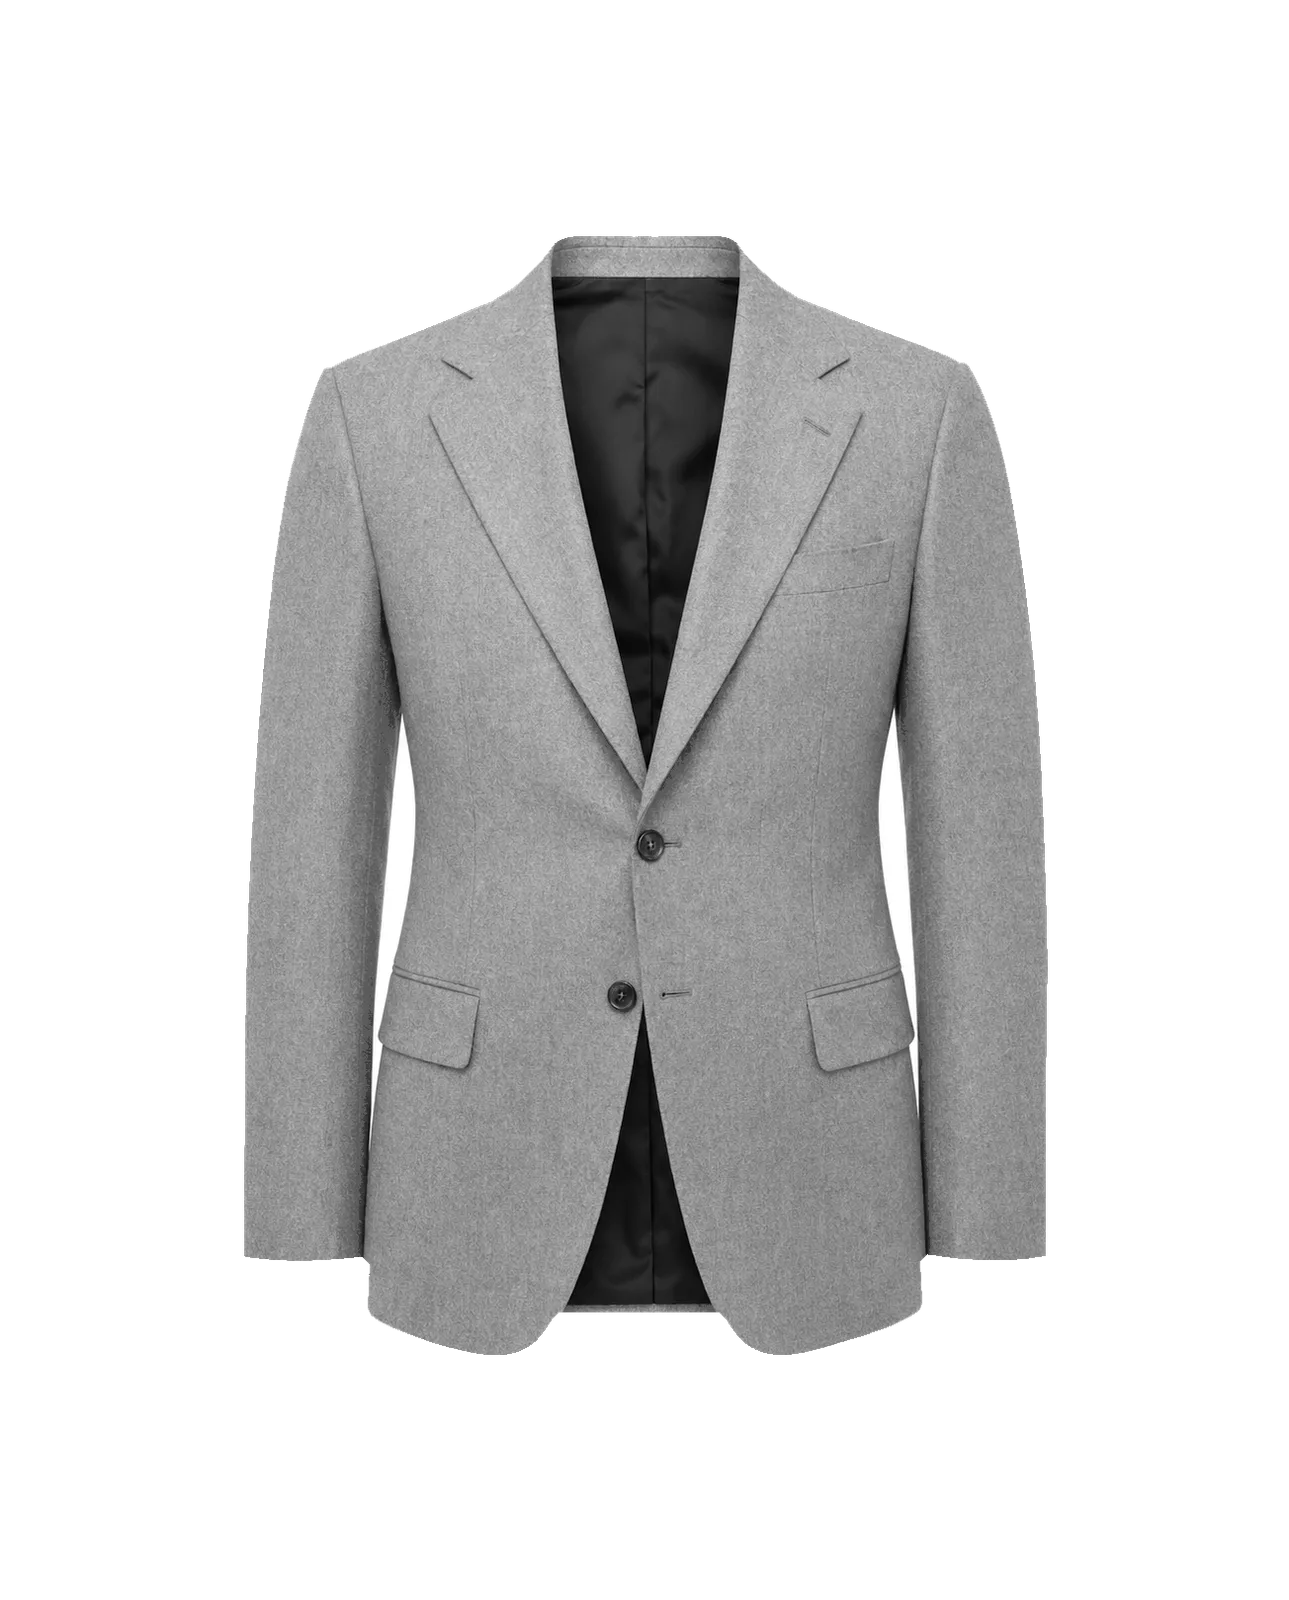
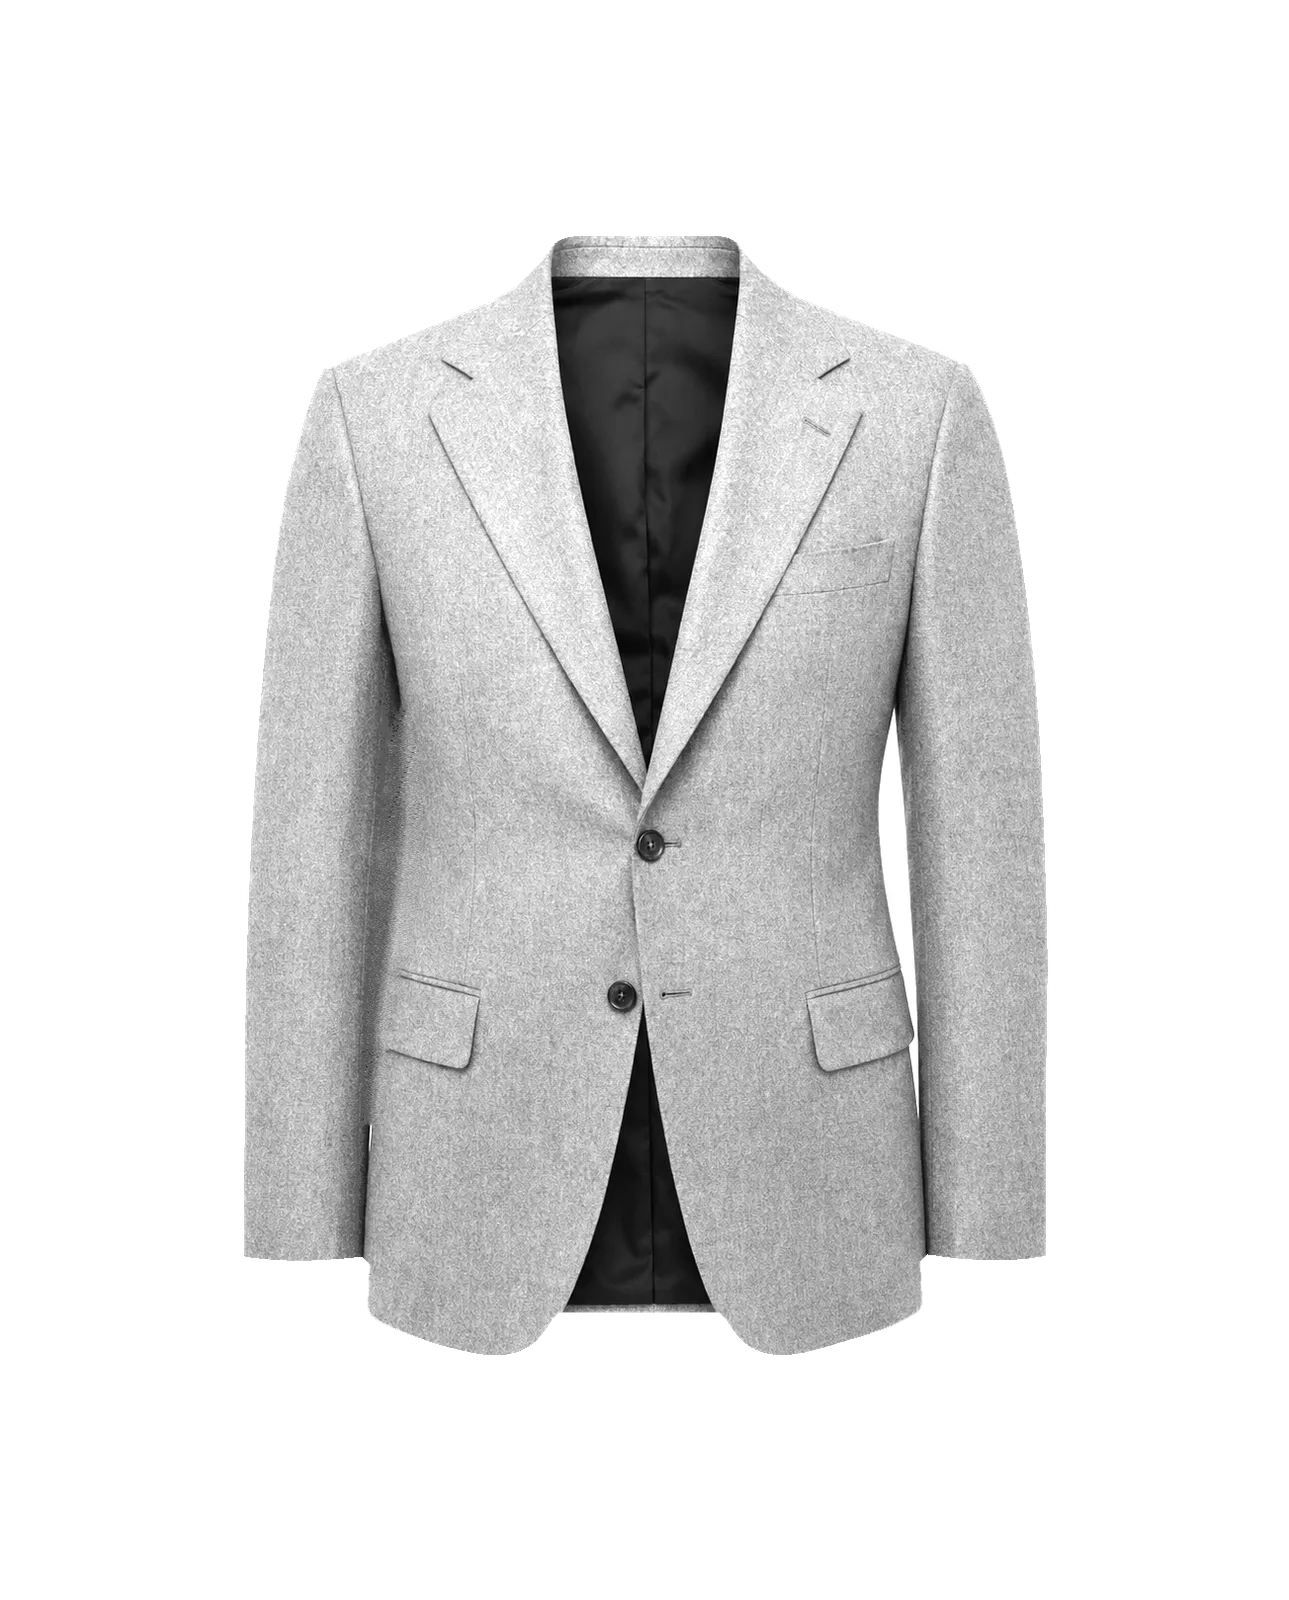
Heal the sleeve/torso gap in jacket-sb's source photo
Founder screenshot showed a hard-edged, pure-white gap between the
sleeve and torso — present even with every displacement region
removed, so not a rendering bug. Traced to the raw source photo:
ghost-mannequin volume stands the sleeve away from the body more than
a worn garment would, letting the white studio backdrop show through
an interior gap. Confirmed via raw luminance (pegged 253-255 with a
clean silhouette-like boundary, nothing like a highlight's soft
falloff) and confirmed not a mask bug — the shipped alpha was fully
opaque there too, because the gap is an enclosed island the frame-edge
flood fill in extractMask can never reach.

Two hand-rolled per-row fixes were tried first and both looked worse
than the gap in different ways: a colour-gradient fill had zero grain
texture and combed horizontal banding; a clone-shifted strip fixed the
texture but produced an obvious rectangular "sticker" with a mismatched
grain direction. Both abandoned in favour of real texture-aware
inpainting (Python/OpenCV cv2.inpaint, Telea, masked to the gap's own
connected-component shape) plus a fine grain texture tiled in from
clean sleeve fabric so the fill carries the photo's own noise instead
of reading smooth. Saved as a new source file (original kept on disk
for provenance) and repointed SOURCES["jacket-sb"] to it — confirmed
via rebuild that every other asset stayed byte-identical.

Re-verified with fox_flannel_chalkstripe and
[…]

Changed region(s): [[0.1862, 0.125, 0.8379, 0.8438]]

diff --git a/tools/build-garment-assets.js b/tools/build-garment-assets.js
@@ -571,7 +571,29 @@ if (require.main === module) {
         // disk untouched, it is just no longer what this key builds from.
         // Retracing JACKET_SB_LAPELS in garment-photo.js against the new
         // outline is required follow-up (see that file).
-        "jacket-sb": "replicate-prediction-mapxkr394drmr0d05wa9n2cnbw.png",
+        // REPOINTED 25 Aug 2026 to a healed copy of the same photo — the
+        // original had a hard-edged, pure-white gap between the sleeve
+        // and torso (ghost-mannequin volume standing the sleeve away from
+        // the body more than a worn garment would, letting the studio
+        // backdrop show through). Confirmed real via the raw luminance
+        // (pegged 253-255, a clean silhouette-like boundary, nothing like
+        // a highlight's soft falloff) and confirmed NOT a mask bug: the
+        // shipped alpha was fully opaque there too, because the gap is an
+        // enclosed island the frame-edge flood fill in extractMask can
+        // never reach. A striped test cloth never showed it (a blown gap
+        // just reads as "extra-bright stripes"); a windowpane check did,
+        // as a jarring pattern-less pale band with no grid lines at all.
+        // Healed with OpenCV inpainting (cv2.inpaint, Telea) restricted to
+        // the gap's own connected-component shape, then a fine grain
+        // texture tiled in from a clean patch of the same sleeve fabric so
+        // the fill carries real noise instead of reading smooth/flat — a
+        // first attempt at a hand-rolled per-row fix (both a plain colour
+        // gradient and a straight clone-shift) looked worse than the
+        // original in two different ways (obvious flat scanline banding,
+        // then a visible rectangular "sticker") before landing on this.
+        // File: jacket-sb-notch-sleeve-gap-healed.png (original kept on
+        // disk untouched, for provenance/comparison).
+        "jacket-sb": "jacket-sb-notch-sleeve-gap-healed.png",
         "jacket-sb-peak-patch": "jacket-sb-peak-patch.png",
         "jacket-sb-peak-flap": "jacket-sb-peak-flap.png",
         // New 2026-08-23: same widened notch as "jacket-sb" above, patch

diff --git a/sw.js b/sw.js
@@ -6,7 +6,7 @@
 // IMPORTANT: bump CACHE_VERSION on every deploy that changes any
 // cached file (the ?v= params below must match index.html).
 
-var CACHE_VERSION = "bbs-v157";
+var CACHE_VERSION = "bbs-v158";
 
 var PRECACHE = [
     "./",

diff --git a/docs/2026-08-23-style-room-image-prompts.md b/docs/2026-08-23-style-room-image-prompts.md
@@ -128,6 +128,41 @@ correctly (collar halves confirmed bending in opposite directions from
 each other, matching the founder's own left/right/middle description),
 grid pitch matches the body everywhere, no seam/kink at any clip edge.
 
+**Third pass, same day** — founder flagged a third, unrelated problem
+on the same screenshot: a hard-edged, pure-white gap between the sleeve
+and torso, present with every displacement region removed entirely (so
+not a code bug at all). Traced to the raw source photo itself: ghost-
+mannequin volume stands the sleeve away from the body more than a worn
+garment would, letting the white studio backdrop show through a gap —
+confirmed via raw luminance (pegged 253-255 with a clean silhouette-
+like boundary, nothing like a highlight's soft falloff) and confirmed
+NOT a mask bug (the shipped alpha was fully opaque there too, because
+the gap is an enclosed island the frame-edge flood fill in
+`extractMask` can never reach — it only spreads through background
+connected to the frame edge). A striped cloth hid this too (reads as
+"extra-bright stripes"); a windowpane check showed it as a jarring,
+pattern-less pale band with no grid lines at all.
+
+Two hand-rolled per-row fixes were tried and both looked worse than the
+gap itself, in two different ways: a two-anchor colour gradient healed
+the blowout but had zero grain texture and combed horizontal banding
+(each row's independent blend landing at a slightly different tone);
+clone-shifting a same-width strip from clean fabric alongside it fixed
+the texture but produced an obvious rectangular "sticker" with a
+mismatched grain direction and a hard-cut bottom edge. Both abandoned.
+Fixed properly with real texture-aware inpainting (Python/OpenCV,
+`cv2.inpaint` with `INPAINT_TELEA`, masked to the gap's own connected-
+component shape) for the smooth structural fill, then a fine grain
+texture tiled in from a clean patch of the same sleeve fabric (with a
+per-row pseudo-random tile offset so the seam doesn't itself read as a
+repeat) so the fill carries the photograph's own noise instead of
+reading smooth. Saved as `images/styleBuilder/jacket-sb-notch-sleeve-
+gap-healed.png` (original kept on disk, untouched, for provenance) and
+`tools/build-garment-assets.js`'s `SOURCES["jacket-sb"]` repointed to
+it — confirmed via rebuild that every other asset stayed byte-
+identical. Re-verified with both test cloths: gap fully gone, reads as
+a natural fold shadow, no scanline banding, no sticker seam.
+
 **Founder correction (23 Aug 2026): the shipped notch lapel reads too
 narrow. Widen it to at least 4" (≈10cm) at its widest point** — still a
 true notch (clean V where collar meets lapel), not a peak, just cut fuller
